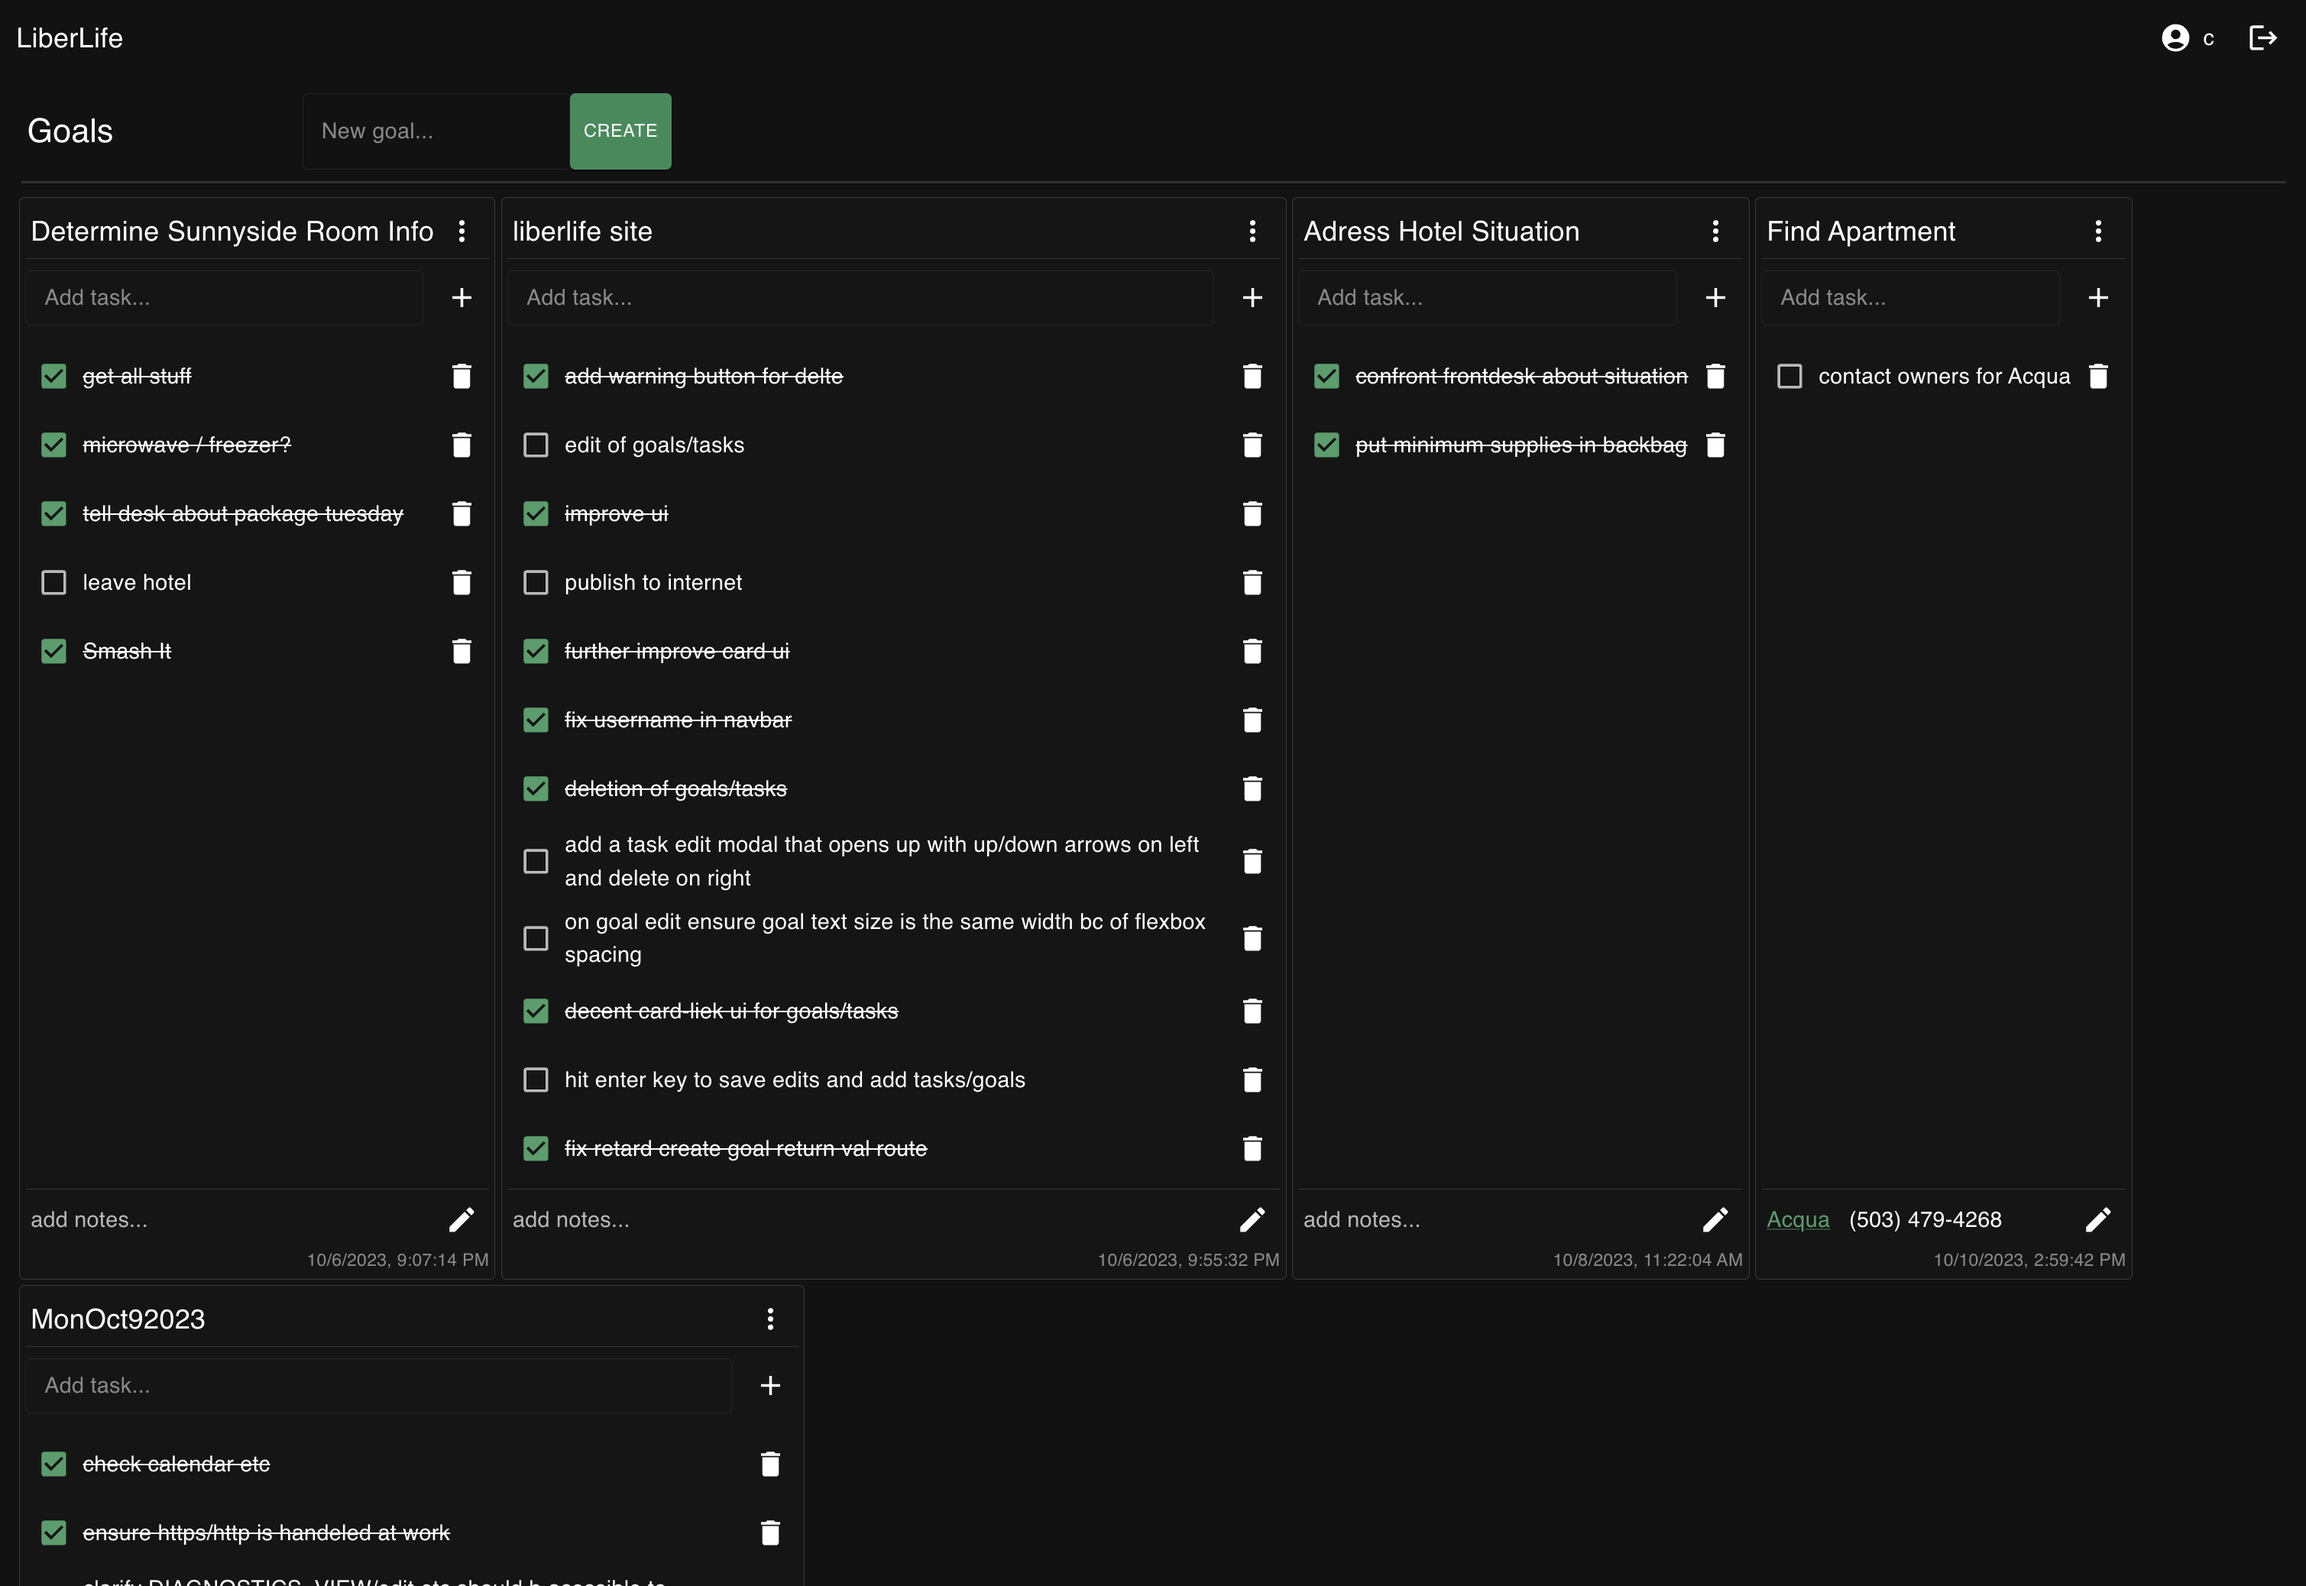
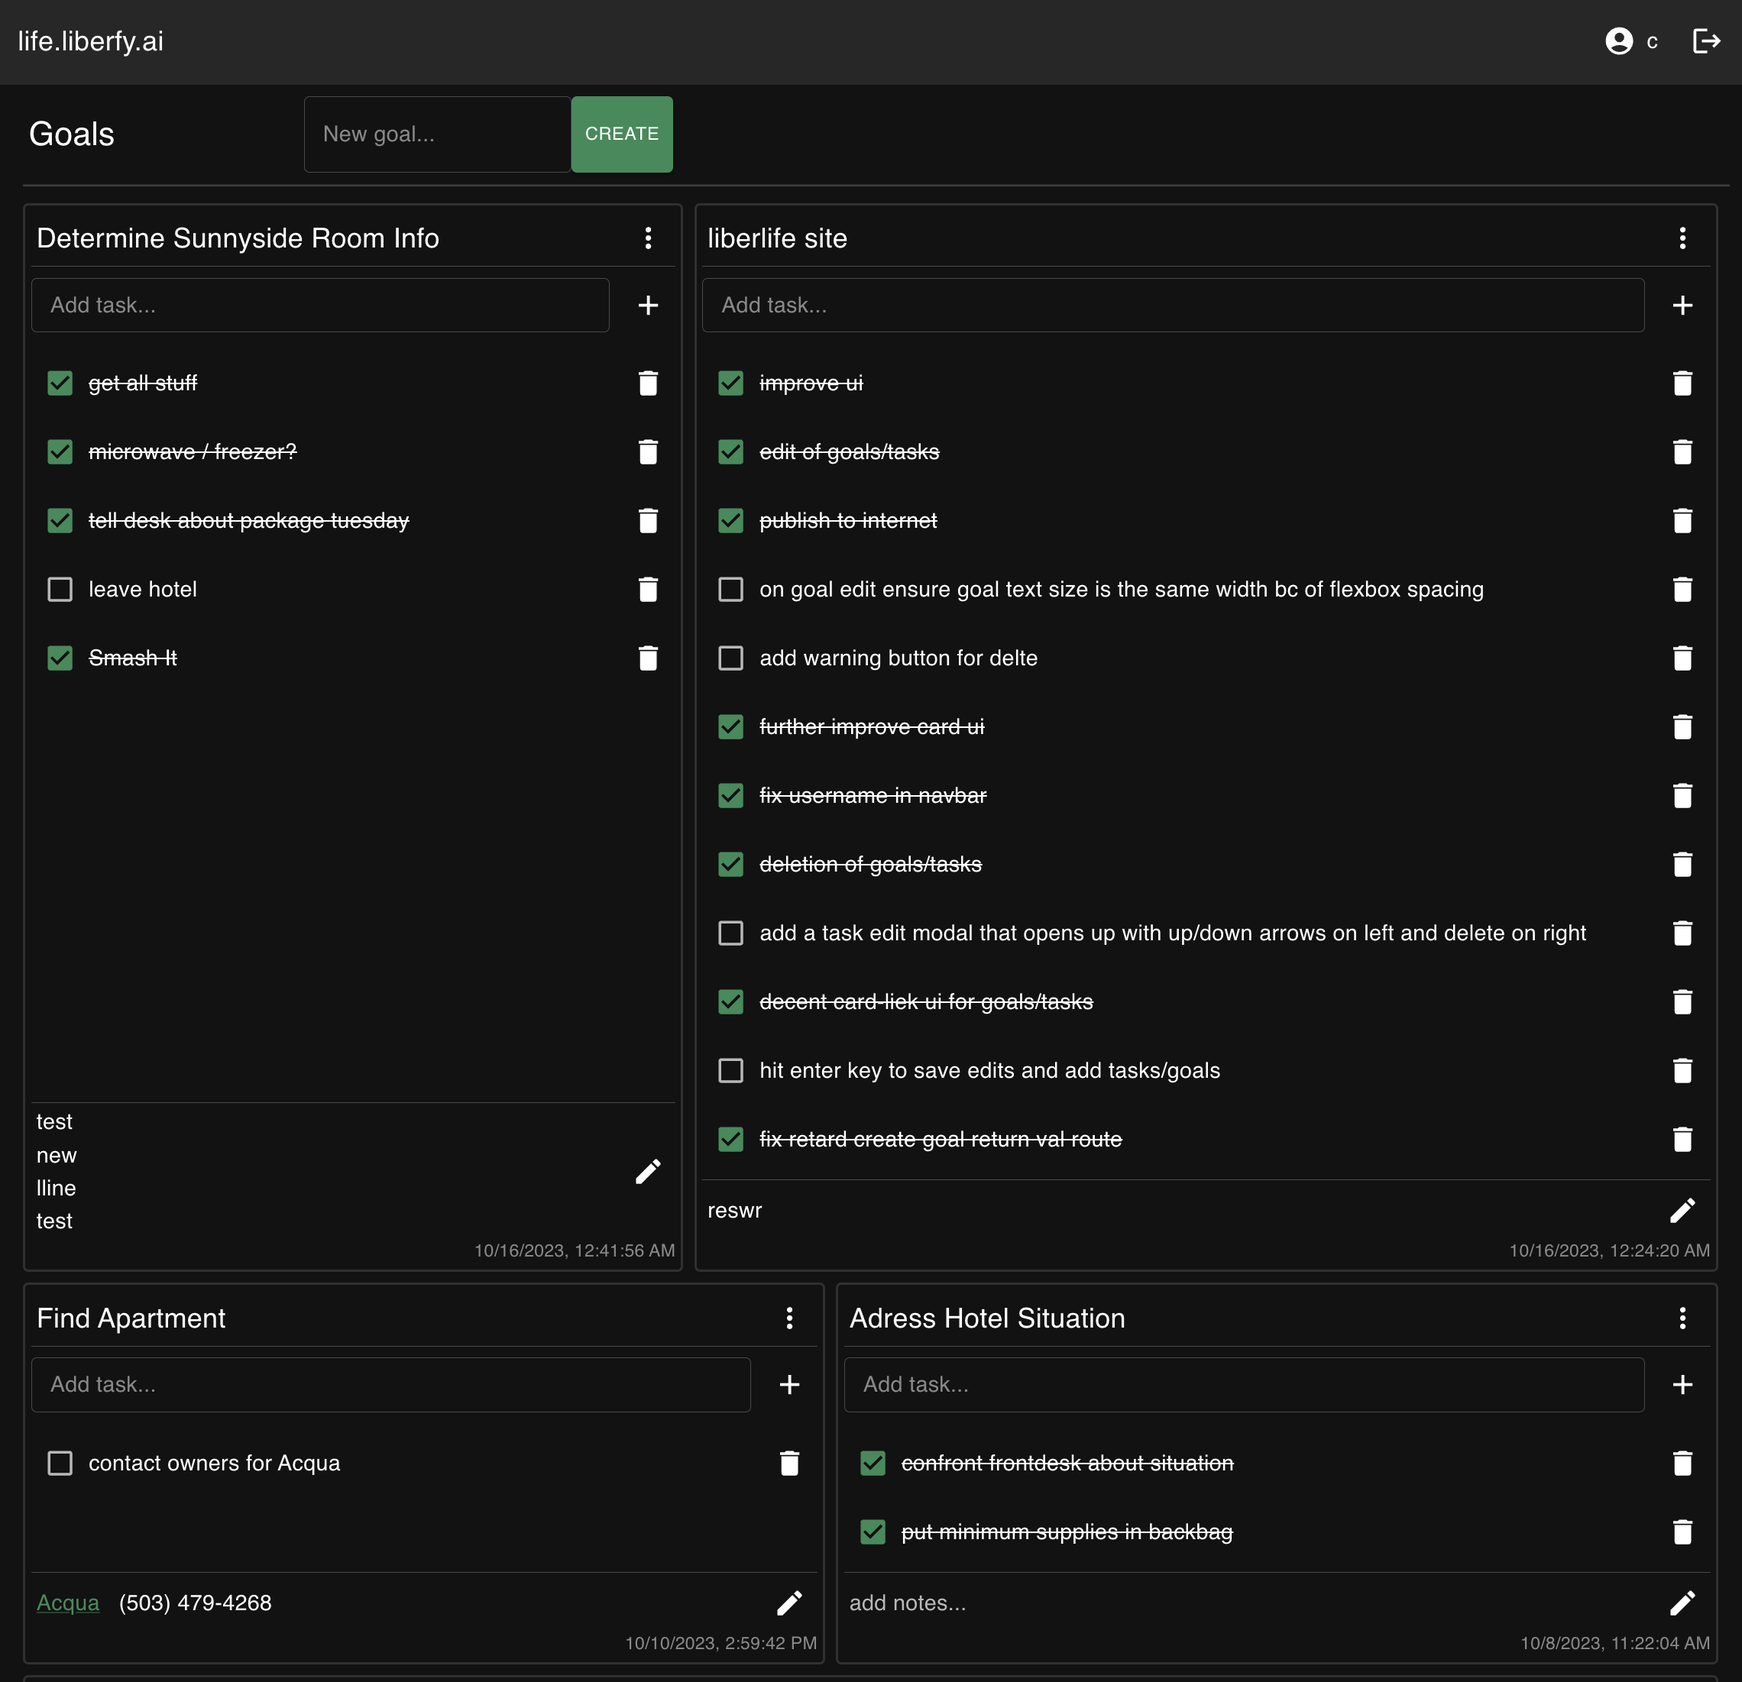
literally optimal spacing

diff --git a/frontend/src/App.tsx b/frontend/src/App.tsx
@@ -1,20 +1,20 @@
-import React from 'react';
-import { BrowserRouter as Router, Route, Routes } from 'react-router-dom';
-import { ThemeProvider, createTheme } from '@mui/material/styles';
-import { CssBaseline } from '@mui/material';
-import { AuthProvider } from './contexts/AuthContext';
-import LogRegPage from './pages/LogRegPage';
-import GoalsPage from './pages/GoalsPage';
-import NavBar from './components/NavBar';
+import React from "react";
+import { BrowserRouter as Router, Route, Routes } from "react-router-dom";
+import { ThemeProvider, createTheme } from "@mui/material/styles";
+import { CssBaseline } from "@mui/material";
+import { AuthProvider } from "./contexts/AuthContext";
+import LogRegPage from "./pages/LogRegPage";
+import GoalsPage from "./pages/GoalsPage";
+import NavBar from "./components/NavBar";
 
-export const primaryColor = '#2E8B57'; // SeaGreen
-export const secondaryColor = '#006400'; // DarkGreen
+export const primaryColor = "#2E8B57"; // SeaGreen
+export const secondaryColor = "#006400"; // DarkGreen
 
 export const darkTheme = createTheme({
   palette: {
-    mode: 'dark',
+    mode: "dark",
     primary: {
-      main: primaryColor,// SeaGreen
+      main: primaryColor, // SeaGreen
     },
     secondary: {
       main: secondaryColor, // DarkGreen
@@ -22,28 +22,23 @@ export const darkTheme = createTheme({
   },
 });
 
-
 // ... other imports
 
-
 function App() {
-
-
+  document.title = "life.liberfy.ai";
   return (
     <AuthProvider>
+      <ThemeProvider theme={darkTheme}>
+        <CssBaseline />
 
-
-    <ThemeProvider theme={darkTheme}>
-      <CssBaseline />
-
-      <Router>
-      <NavBar />
-        <Routes>
-          <Route path="/" element={<GoalsPage />} />
-          <Route path="/login" element={<LogRegPage />} />
-        </Routes>
-      </Router>
-    </ThemeProvider>
+        <Router>
+          <NavBar />
+          <Routes>
+            <Route path="/" element={<GoalsPage />} />
+            <Route path="/login" element={<LogRegPage />} />
+          </Routes>
+        </Router>
+      </ThemeProvider>
     </AuthProvider>
   );
 }

diff --git a/frontend/src/pages/GoalsPage/GoalItem.tsx b/frontend/src/pages/GoalsPage/GoalItem.tsx
@@ -75,6 +75,7 @@ export const GoalItem: React.FC<GoalItemProps> = ({
         border: "2px solid #303030",
         display: "flex", // This turns it into a flex container
         flexDirection: "column", // Stack children vertically
+        flexGrow: 1,
       }}
     >
       <GoalHeader

diff --git a/frontend/src/index.tsx b/frontend/src/index.tsx
@@ -7,9 +7,12 @@ import reportWebVitals from './reportWebVitals';
 const root = ReactDOM.createRoot(
   document.getElementById('root') as HTMLElement
 );
+
 root.render(
   <React.StrictMode>
-    <App />
+    <App
+
+    />
   </React.StrictMode>
 );
 
